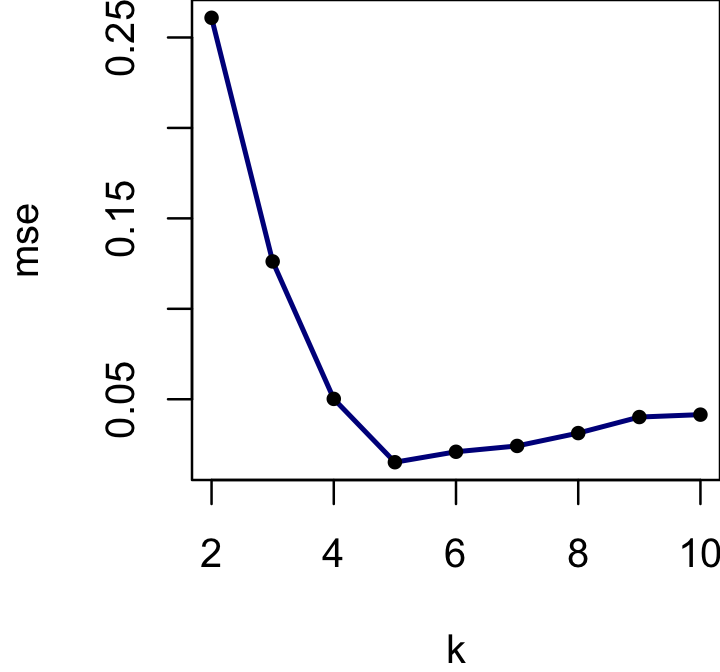
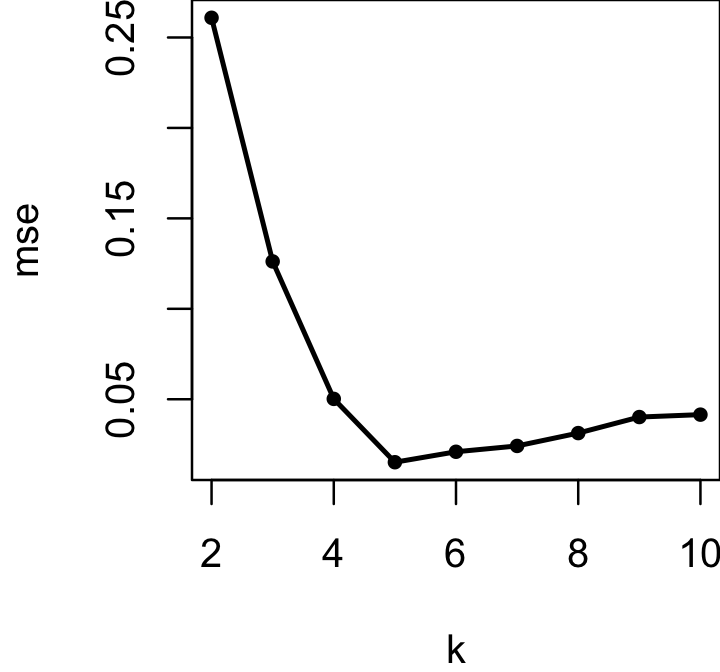
Completed the kmeans demo.

diff --git a/docs/kmeans_demo.html b/docs/kmeans_demo.html
@@ -430,15 +430,15 @@ project makes it easier to run your code on other machines.</p>
 <div class="panel panel-default">
 <div class="panel-heading">
 <p class="panel-title">
-<a data-toggle="collapse" data-parent="#workflowr-checks" href="#strongRepositoryversionstrongahrefhttpsgithubcomstephenslabcvtree0cdce4bfd040464eefcd46d02621d266c4b1a29atargetblank0cdce4ba">
+<a data-toggle="collapse" data-parent="#workflowr-checks" href="#strongRepositoryversionstrongahrefhttpsgithubcomstephenslabcvtreef900394fbfeb5129ffc4bfad9fc80a2c9f521dfbtargetblankf900394a">
 <span class="glyphicon glyphicon-ok text-success"
 aria-hidden="true"></span> <strong>Repository version:</strong>
-<a href="https://github.com/stephenslab/cv/tree/0cdce4bfd040464eefcd46d02621d266c4b1a29a" target="_blank">0cdce4b</a>
+<a href="https://github.com/stephenslab/cv/tree/f900394fbfeb5129ffc4bfad9fc80a2c9f521dfb" target="_blank">f900394</a>
 </a>
 </p>
 </div>
 <div
[2 lines of base64/hex data omitted]
 class="panel-collapse collapse">
 <div class="panel-body">
 <p>
@@ -448,7 +448,7 @@ reproducibility.
 </p>
 <p>
 The results in this page were generated with repository version
-<a href="https://github.com/stephenslab/cv/tree/0cdce4bfd040464eefcd46d02621d266c4b1a29a" target="_blank">0cdce4b</a>.
+<a href="https://github.com/stephenslab/cv/tree/f900394fbfeb5129ffc4bfad9fc80a2c9f521dfb" target="_blank">f900394</a>.
 See the <em>Past versions</em> tab to see a history of the changes made
 to the R Markdown and HTML files.
 </p>
@@ -509,6 +509,40 @@ Message
 </tr>
 </thead>
 <tbody>
+<tr>
+<td>
+Rmd
+</td>
+<td>
+<a href="https://github.com/stephenslab/cv/blob/f900394fbfeb5129ffc4bfad9fc80a2c9f521dfb/analysis/kmeans_demo.Rmd" target="_blank">f900394</a>
+</td>
+<td>
+Peter Carbonetto
+</td>
+<td>
+2022-12-08
+</td>
+<td>
+workflowr::wflow_publish("kmeans_demo.Rmd", verbose = TRUE)
+</td>
+</tr>
+<tr>
+<td>
+html
+</td>
+<td>
+<a href="https://rawcdn.githack.com/stephenslab/cv/676df0af81dddab0cb632a2d79d62948e90f4d92/docs/kmeans_demo.html" target="_blank">676df0a</a>
+</td>
+<td>
+Peter Carbonetto
+</td>
+<td>
+2022-12-08
+</td>
+<td>
+Build site.
+</td>
+</tr>
 <tr>
 <td>
 Rmd
@@ -673,10 +707,46 @@ cv &lt;- perform_cv(run_kmeans,predict_kmeans,compute_mse,X,
 <p>Now let’s see how the prediction error evolves as we change <span
 class="math inline">\(k\)</span>.</p>
 <pre class="r"><code>par(mar = c(4,4,0,0))
-plot(k,rowMeans(cv),type = &quot;l&quot;,col = &quot;darkblue&quot;,lwd = 2,
-     xlab = &quot;k&quot;,ylab = &quot;mse&quot;)
+plot(k,rowMeans(cv),type = &quot;l&quot;,lwd = 2,xlab = &quot;k&quot;,ylab = &quot;mse&quot;)
 points(k,rowMeans(cv),pch = 20)</code></pre>
 <p><img src="figure/kmeans_demo.Rmd/plot-k-vs-mse-1.png" width="360" style="display: block; margin: auto;" /></p>
+<p>
+<button type="button" class="btn btn-default btn-xs btn-workflowr btn-workflowr-fig" data-toggle="collapse" data-target="#fig-plot-k-vs-mse-1">
+Past versions of plot-k-vs-mse-1.png
+</button>
+</p>
+<div id="fig-plot-k-vs-mse-1" class="collapse">
+<div class="table-responsive">
+<table class="table table-condensed table-hover">
+<thead>
+<tr>
+<th>
+Version
+</th>
+<th>
+Author
+</th>
+<th>
+Date
+</th>
+</tr>
+</thead>
+<tbody>
+<tr>
+<td>
+<a href="https://github.com/stephenslab/cv/blob/676df0af81dddab0cb632a2d79d62948e90f4d92/docs/figure/kmeans_demo.Rmd/plot-k-vs-mse-1.png" target="_blank">676df0a</a>
+</td>
+<td>
+Peter Carbonetto
+</td>
+<td>
+2022-12-08
+</td>
+</tr>
+</tbody>
+</table>
+</div>
+</div>
 <p>Reassuringly, the lowest error is achieved at the correct number of
 clusters (<span class="math inline">\(k = 5\)</span>).</p>
 <br>
